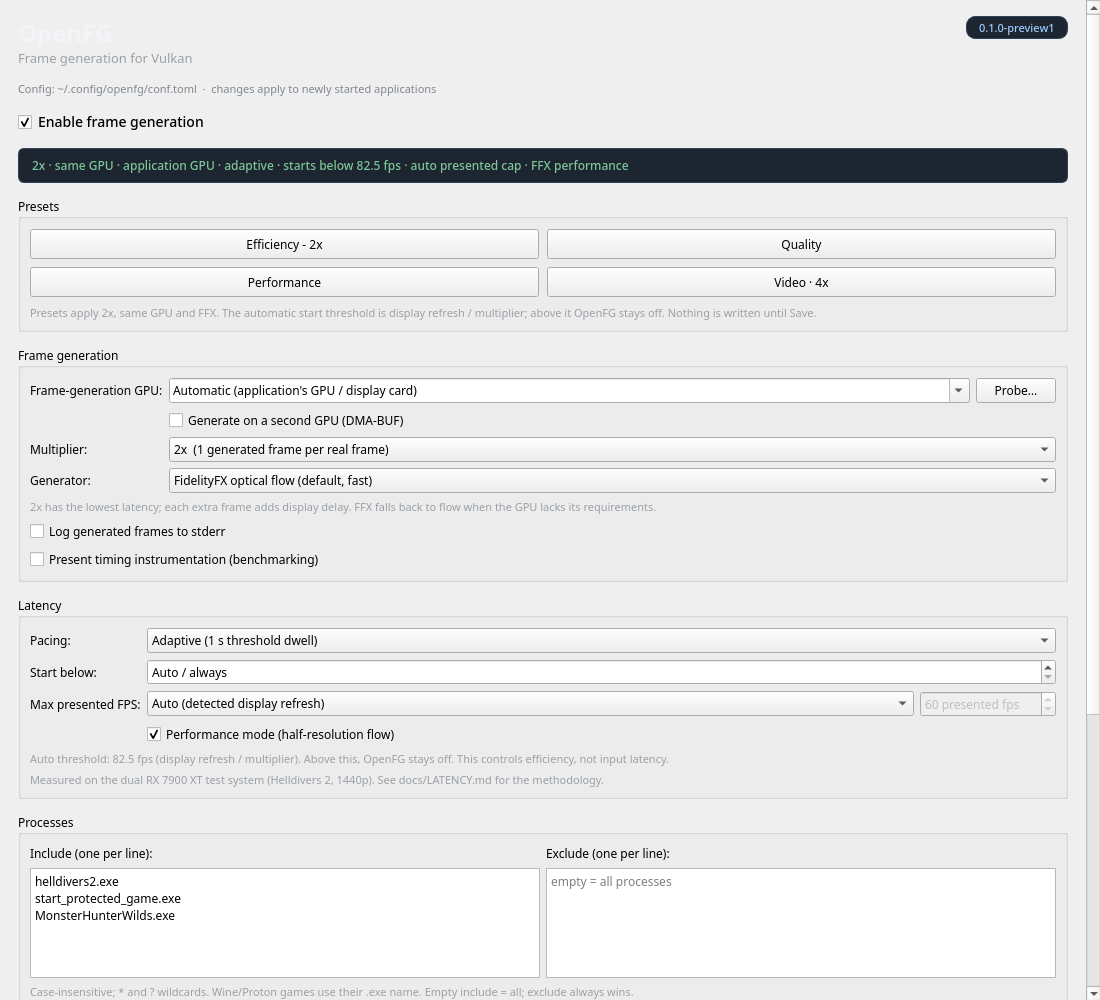
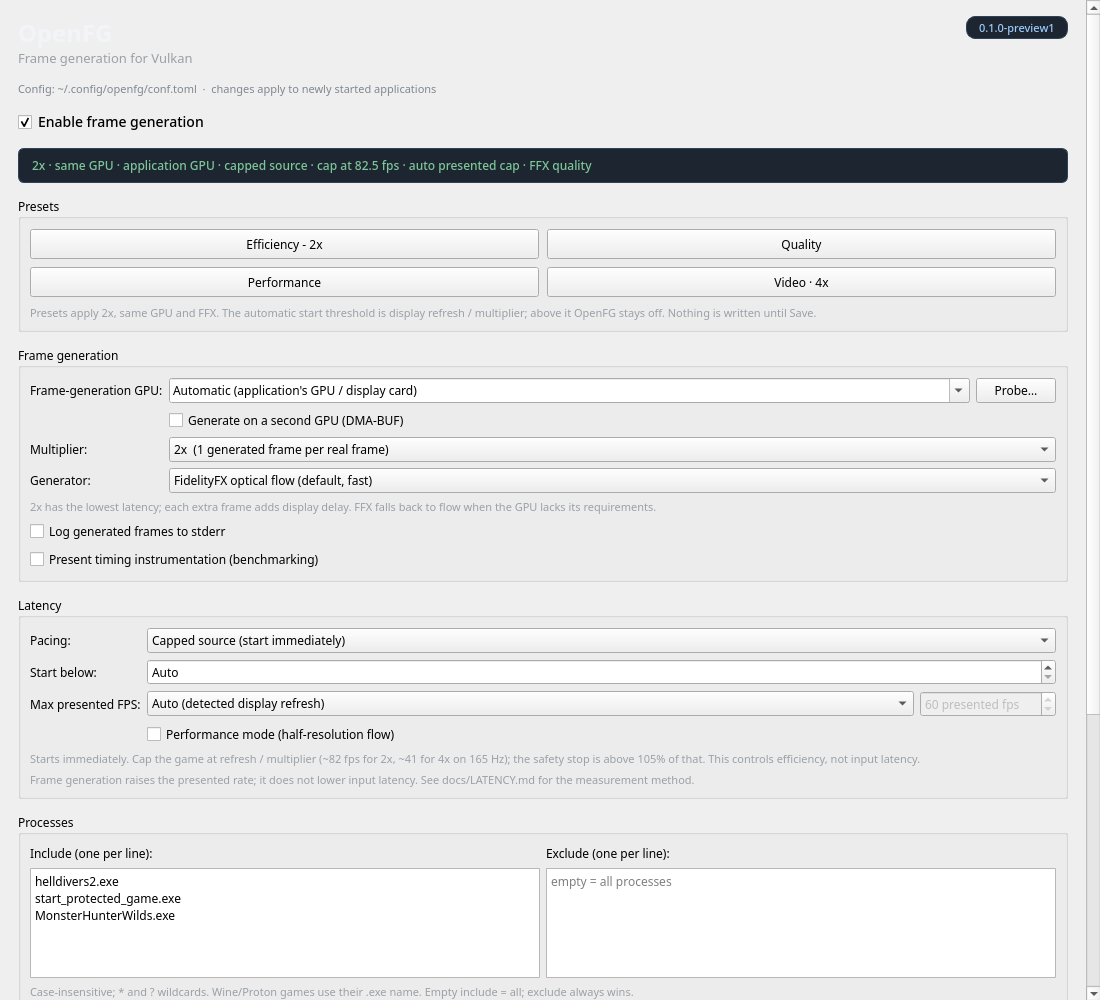
gui: make the capped-source summary accurate
Capped pacing starts immediately and stops above 105% of the source cap, so the summary now says cap at N fps rather than starts below N fps. Drop the stale Helldivers 2 hint and keep the efficiency-versus-latency note.

diff --git a/gui/openfg-gui.py b/gui/openfg-gui.py
@@ -604,7 +604,7 @@ class MainWindow(QtWidgets.QMainWindow):
         self.target_fps = QtWidgets.QSpinBox()
         self.target_fps.setRange(0, 1000)
         self.target_fps.setSingleStep(5)
-        self.target_fps.setSpecialValueText("Auto / always")
+        self.target_fps.setSpecialValueText("Auto")
         self.target_fps.setSuffix(" fps")
         self.target_fps.setSizePolicy(
             QtWidgets.QSizePolicy.Expanding, QtWidgets.QSizePolicy.Fixed)
@@ -661,8 +661,8 @@ class MainWindow(QtWidgets.QMainWindow):
         latency_layout.addLayout(latency_form)
         latency_layout.addWidget(self.target_note)
         latency_layout.addWidget(hint(
-            "Measured on the dual RX 7900 XT test system (Helldivers 2, "
-            "1440p). See docs/LATENCY.md for the methodology."))
+            "Frame generation raises the presented rate; it does not lower "
+            "input latency. See docs/LATENCY.md for the measurement method."))
 
         root.addWidget(latency)
 
@@ -881,7 +881,11 @@ class MainWindow(QtWidgets.QMainWindow):
             pacing = self.pacing.currentData()
             pacing_text = "capped source" if pacing == "capped" else "adaptive"
             threshold = self._effective_threshold()
-            if threshold > 0:
+            if pacing == "capped":
+                target_text = (
+                    f"cap at {threshold:.1f} fps" if threshold > 0
+                    else "always generating")
+            elif threshold > 0:
                 target_text = f"starts below {threshold:.1f} fps"
             else:
                 target_text = "always generating"
@@ -941,9 +945,9 @@ class MainWindow(QtWidgets.QMainWindow):
         if self.pacing.currentData() == "capped":
             self.target_note.setText(
                 "Starts immediately. Cap the game at refresh / multiplier "
-                "(~82 fps for 2x, ~41 for 4x on 165 Hz); above the automatic "
-                "threshold, generation stays off. This controls efficiency, "
-                "not input latency.")
+                "(~82 fps for 2x, ~41 for 4x on 165 Hz); the safety stop is "
+                "above 105% of that. This controls efficiency, not input "
+                "latency.")
             return
         threshold = self._effective_threshold()
         target = int(self.target_fps.value())
